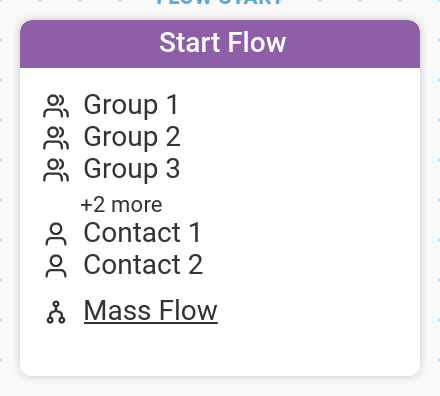
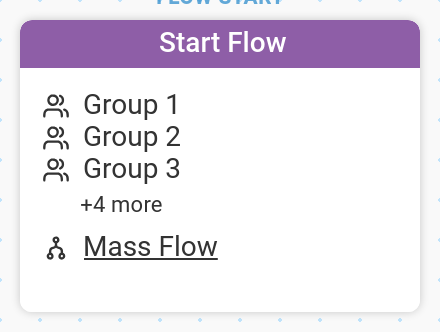
Use shared recipient budget for canvas node display
Groups and contacts now share a single 3-item display limit via
renderMixedList, rather than being truncated independently.

diff --git a/src/flow/actions/start_session.ts b/src/flow/actions/start_session.ts
@@ -7,26 +7,31 @@ import {
   FlowTypes
 } from '../types';
 import { Node, StartSession } from '../../store/flow-definition';
-import { renderStringList, renderFlowLinks } from '../utils';
+import { renderMixedList, renderFlowLinks } from '../utils';
 import { Icon } from '../../Icons';
+
 export const start_session: ActionConfig = {
   name: 'Start Flow',
   group: ACTION_GROUPS.broadcast,
   flowTypes: [FlowTypes.VOICE, FlowTypes.MESSAGE, FlowTypes.BACKGROUND],
   render: (_node: Node, action: StartSession) => {
-    const contacts = (action.contacts || []).map((c) => c.name);
-    const groups = (action.groups || []).map((g) => g.name);
-
     let recipientsDisplay = html``;
     if (action.create_contact) {
       recipientsDisplay = html`Create a new contact`;
     } else if ((action as any).contact_query) {
       recipientsDisplay = html`${(action as any).contact_query}`;
     } else {
-      recipientsDisplay = html`
-        ${renderStringList(groups, Icon.group)}
-        ${renderStringList(contacts, Icon.contacts)}
-      `;
+      const recipients = [
+        ...(action.groups || []).map((g) => ({
+          name: g.name,
+          icon: Icon.group
+        })),
+        ...(action.contacts || []).map((c) => ({
+          name: c.name,
+          icon: Icon.contacts
+        }))
+      ];
+      recipientsDisplay = html`${renderMixedList(recipients)}`;
     }
 
     return html`

diff --git a/src/flow/actions/send_broadcast.ts b/src/flow/actions/send_broadcast.ts
@@ -2,7 +2,7 @@ import { html } from 'lit-html';
 import { ActionConfig, ACTION_GROUPS, FormData, FlowTypes } from '../types';
 import { Node, SendBroadcast } from '../../store/flow-definition';
 import {
-  renderStringList,
+  renderMixedList,
   renderClamped,
   renderHighlightedText
 } from '../utils';
@@ -13,14 +13,16 @@ export const send_broadcast: ActionConfig = {
   group: ACTION_GROUPS.broadcast,
   flowTypes: [FlowTypes.VOICE, FlowTypes.MESSAGE, FlowTypes.BACKGROUND],
   render: (_node: Node, action: SendBroadcast) => {
-    const contacts = (action.contacts || []).map((c) => c.name);
-    const groups = (action.groups || []).map((g) => g.name);
+    const recipients = [
+      ...(action.groups || []).map((g) => ({ name: g.name, icon: Icon.group })),
+      ...(action.contacts || []).map((c) => ({
+        name: c.name,
+        icon: Icon.contacts
+      }))
+    ];
 
     return html`<div>
-      <div>
-        ${renderStringList(groups, Icon.group)}
-        ${renderStringList(contacts, Icon.contacts)}
-      </div>
+      <div>${renderMixedList(recipients)}</div>
       <div style="margin-top: 0.5em">
         ${renderClamped(renderHighlightedText(action.text, true), action.text)}
       </div>

diff --git a/src/flow/utils.ts b/src/flow/utils.ts
@@ -178,6 +178,33 @@ export const renderStringList = (items: string[], icon?: string) => {
 };
 
 /**
+ * Renders a mixed list of items, each with its own icon, showing up to 3 items
+ * with a "+X more" indicator if there are more items
+ */
+export const renderMixedList = (items: { name: string; icon: string }[]) => {
+  const itemElements = [];
+  const maxDisplay = 3;
+
+  const displayCount =
+    items.length === 4 ? 4 : Math.min(maxDisplay, items.length);
+
+  for (let i = 0; i < displayCount; i++) {
+    itemElements.push(renderLineItem(items[i].name, items[i].icon));
+  }
+
+  if (items.length > maxDisplay && items.length !== 4) {
+    const remainingCount = items.length - maxDisplay;
+    itemElements.push(
+      html`<div style="display:flex;items-align:center;margin-top:0.2em;">
+        <div style="margin-right:0.4em; width: 1em;"></div>
+        <div style="font-size:0.8em">+${remainingCount} more</div>
+      </div>`
+    );
+  }
+  return itemElements;
+};
+
+/**
  * Renders a single flow as a clickable link that fires a temba-flow-clicked event
  */
 const renderFlowLink = (flow: NamedObject, icon?: string) => {
